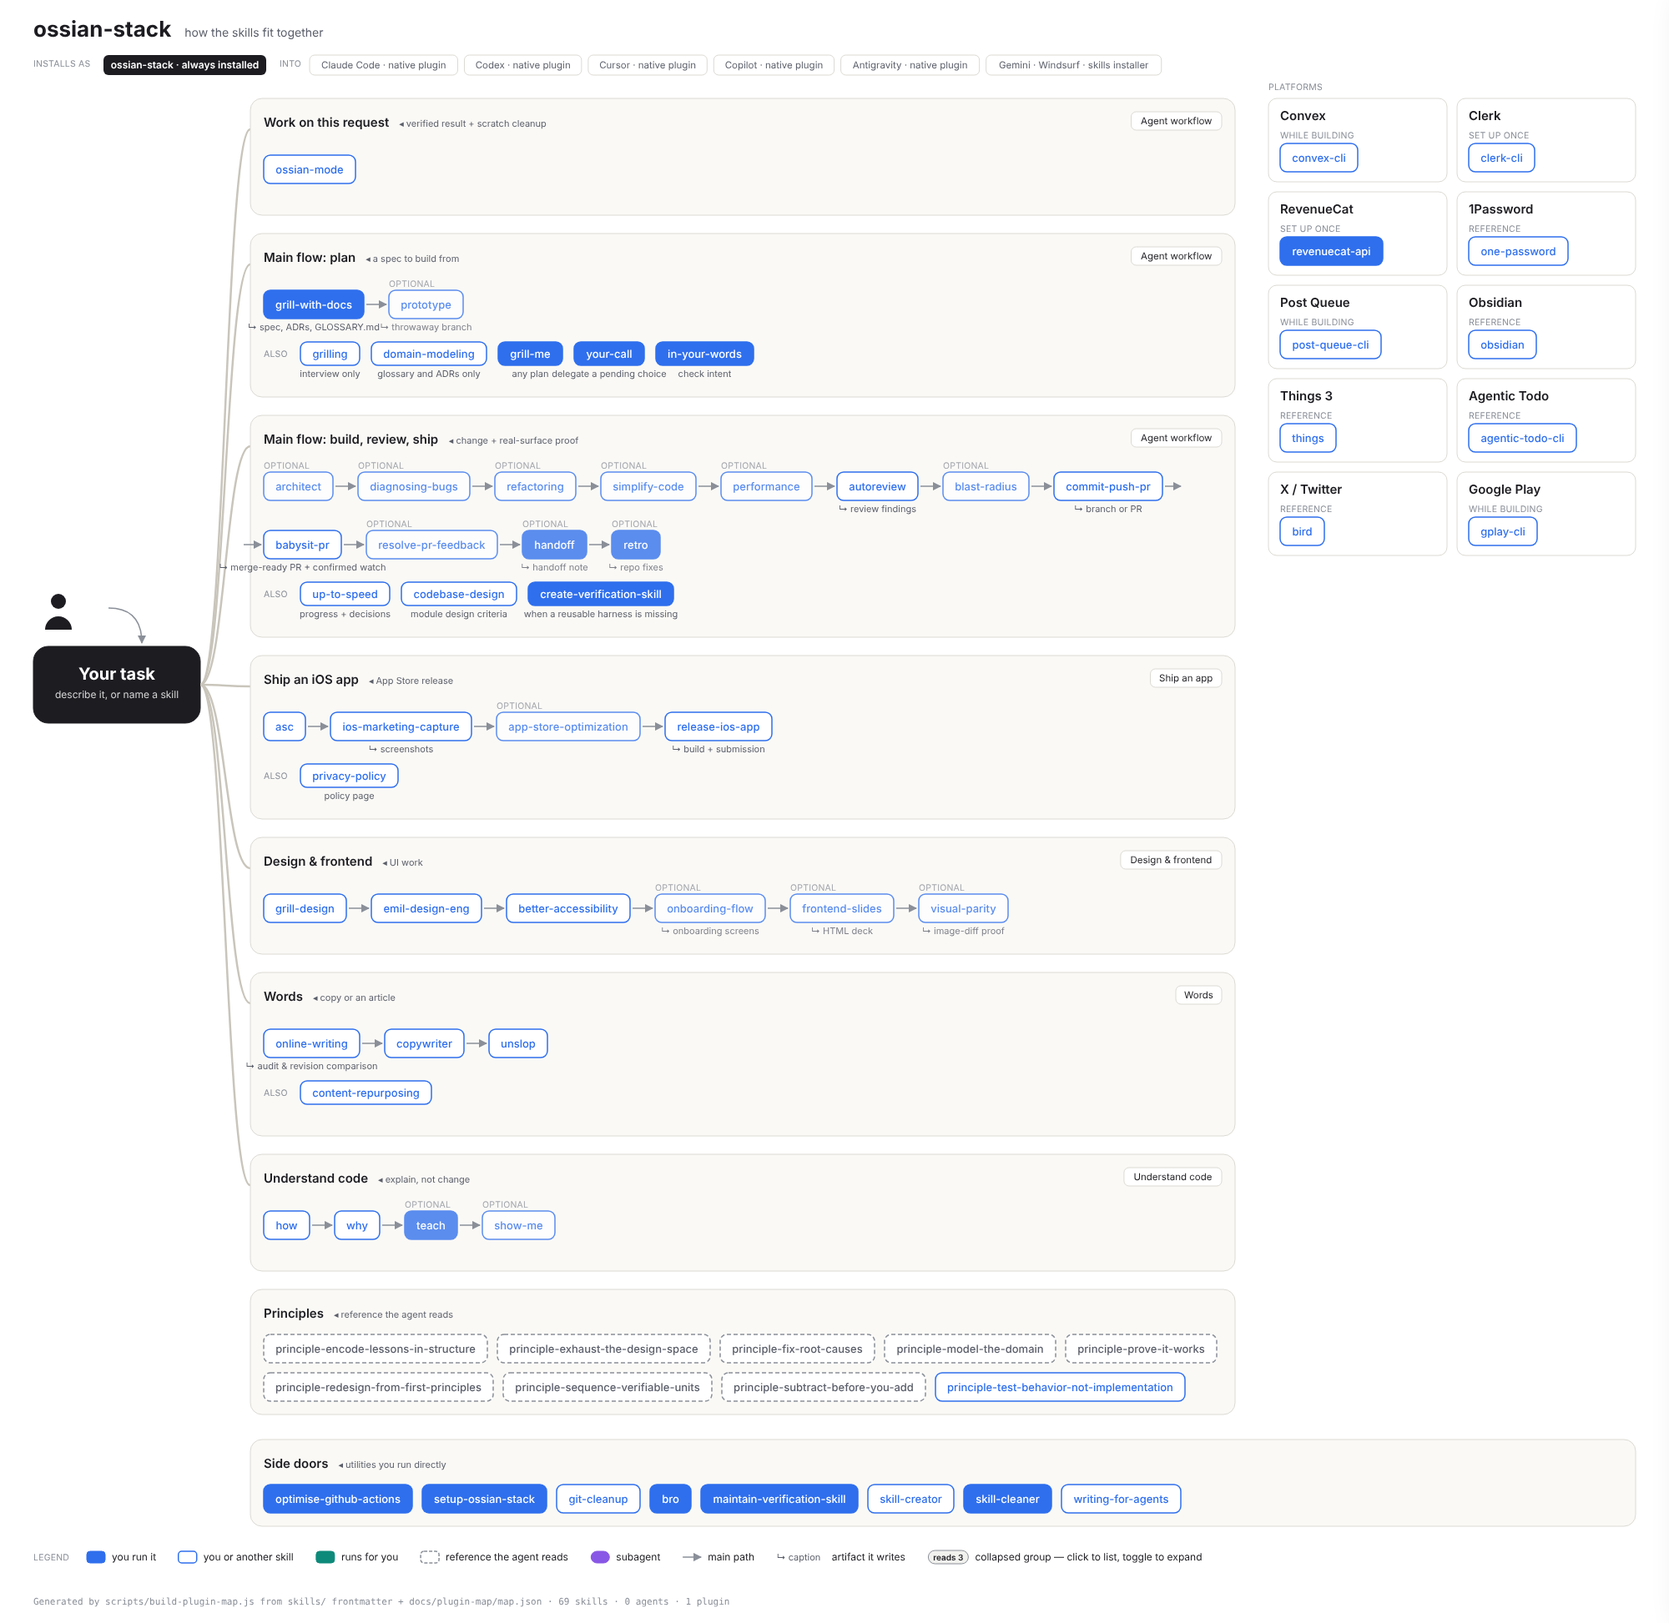
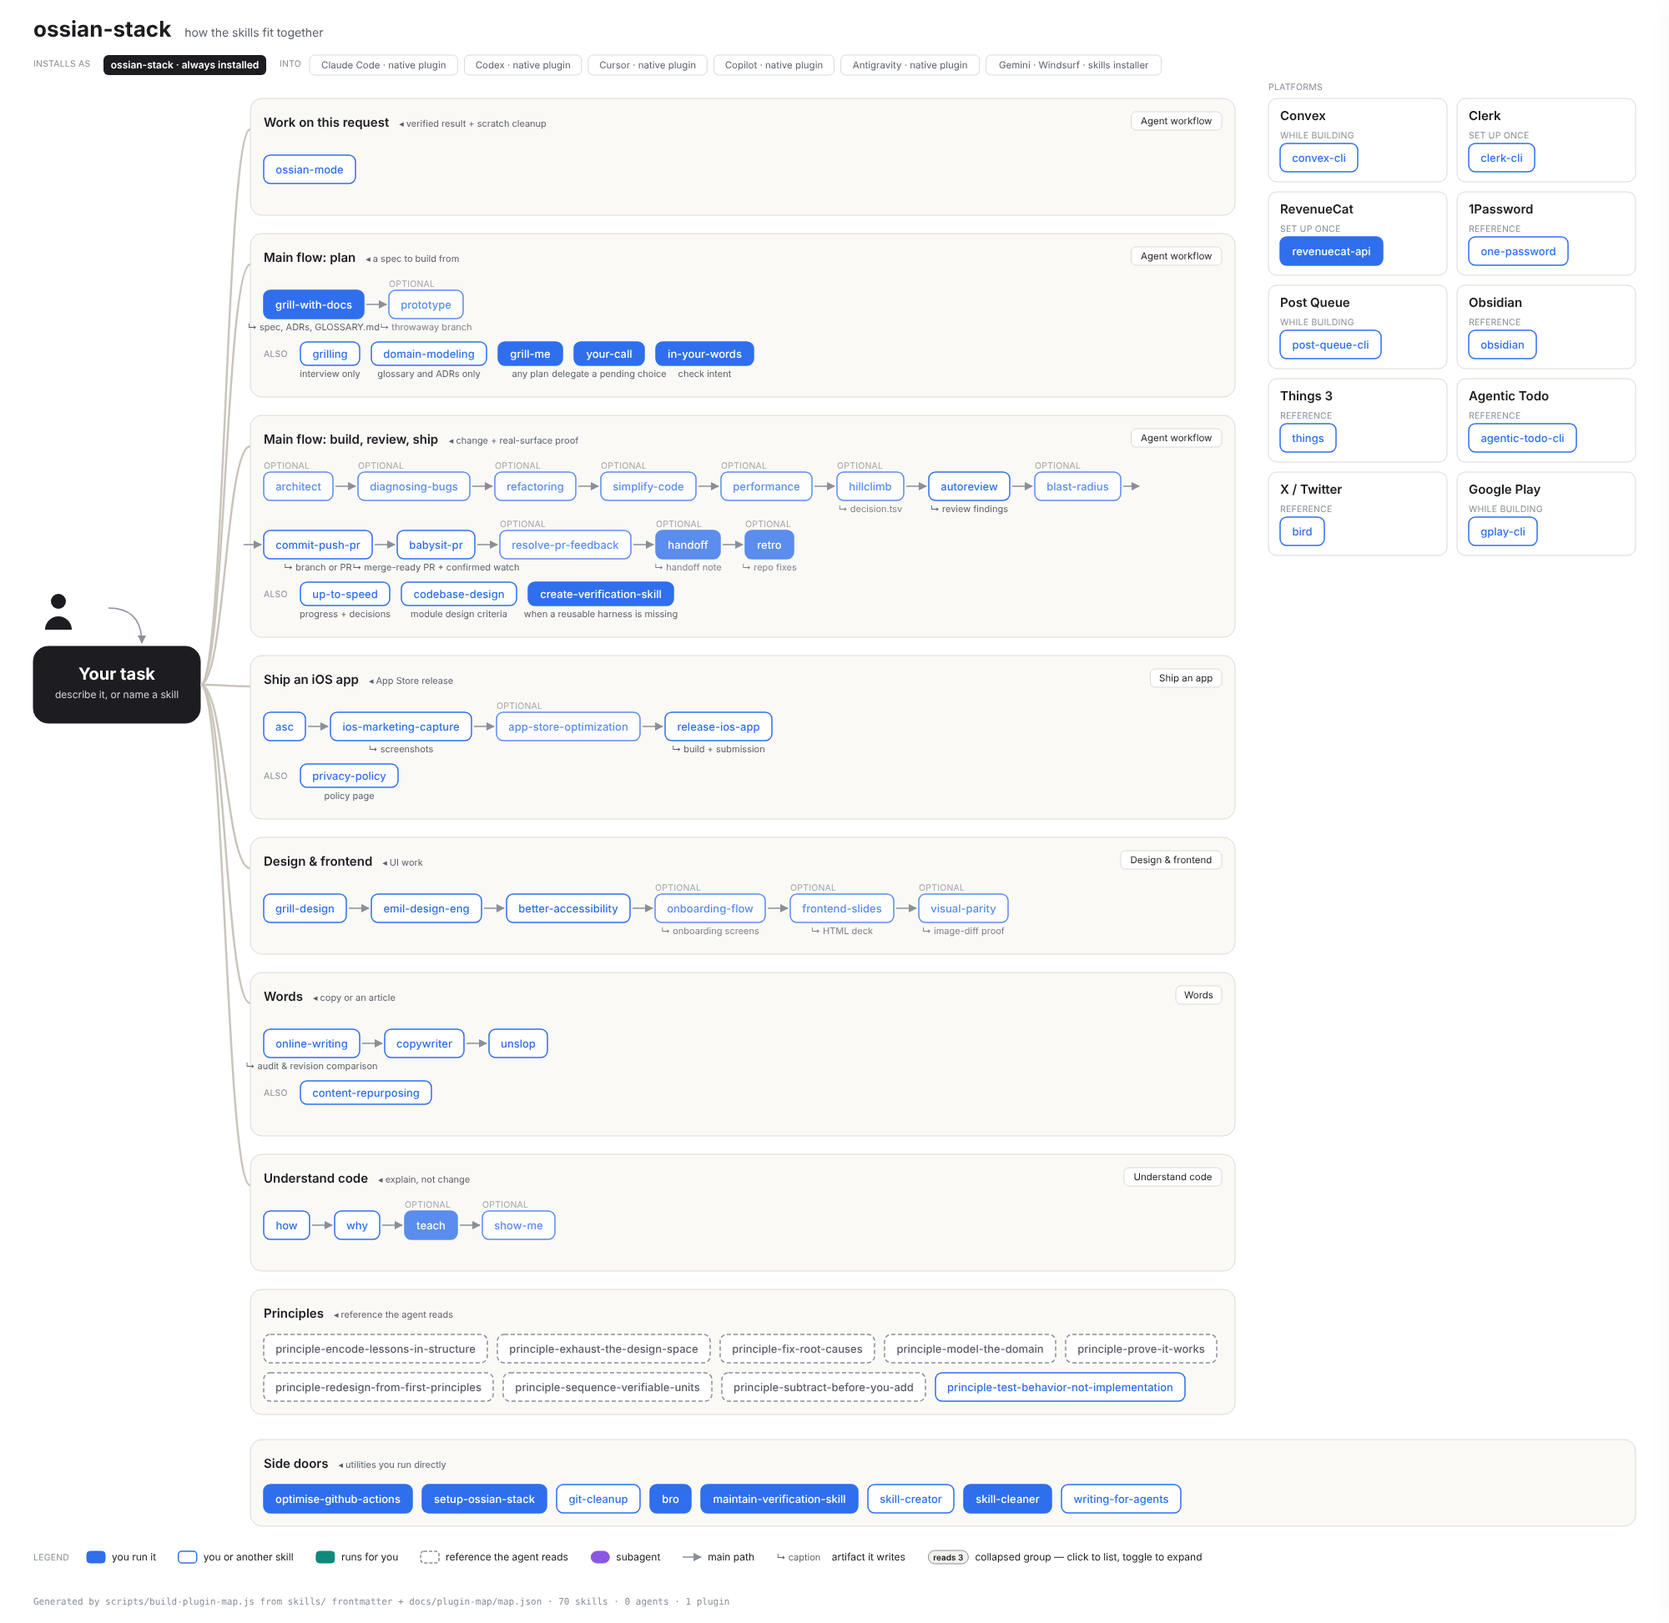
feat(hillclimb): add metric hillclimb skill adapted from pstack
Extract poteto-mode's hillclimb playbook into a standalone skill with
pstack references mapped to ossian-stack skills. performance's metric
improvement mode and ossian-mode's routing now hand off to it.

Claude-Session: https://claude.ai/code/session_01X51LnK1WpvHDXqw88YgKix

Changed region(s): [[0.186, 0.3083, 0.496, 0.37], [0.496, 0.2775, 0.682, 0.3083]]

diff --git a/docs/plugin-map/index.html b/docs/plugin-map/index.html
@@ -233,6 +233,11 @@
       "optional": true
      },
      {
+      "id": "hillclimb",
+      "optional": true,
+      "writes": "decision.tsv"
+     },
+     {
       "id": "autoreview",
       "writes": "review findings"
      },
@@ -780,6 +785,7 @@
    "routes": [],
    "calledBy": [
     "babysit-pr",
+    "hillclimb",
     "ossian-mode",
     "release-ios-app"
    ],
@@ -1088,6 +1094,29 @@
    "calledBy": [],
    "routedBy": []
   },
+  "hillclimb": {
+   "id": "hillclimb",
+   "type": "skill",
+   "plugin": "ossian-stack",
+   "display": "Hillclimb",
+   "description": "Improve one measurable thing against a target in a loop: one change, one measurement, keep or revert. Use for sustained metric work (latency, bundle size, eval score, build time); a one-off fix is diagnosing-bugs or performance.",
+   "role": "both",
+   "humanOnly": false,
+   "argumentHint": null,
+   "origin": "adapted",
+   "repo": "https://github.com/cursor/plugins",
+   "calls": [
+    "commit-push-pr",
+    "principle-prove-it-works",
+    "principle-sequence-verifiable-units"
+   ],
+   "routes": [],
+   "calledBy": [
+    "ossian-mode",
+    "performance"
+   ],
+   "routedBy": []
+  },
   "how": {
    "id": "how",
    "type": "skill",
@@ -1300,7 +1329,8 @@
     "simplify-code",
     "visual-parity",
     "why",
-    "principle-test-behavior-not-implementation"
+    "principle-test-behavior-not-implementation",
+    "hillclimb"
    ],
    "routes": [
     "create-verification-skill",
@@ -1315,13 +1345,14 @@
    "type": "skill",
    "plugin": "ossian-stack",
    "display": "Performance",
-   "description": "Diagnose live performance, analyze captured profiles, or improve one metric through measured experiments.",
+   "description": "Diagnose live performance or analyze captured profiles; hands sustained metric improvement to hillclimb.",
    "role": "both",
    "humanOnly": false,
    "argumentHint": null,
    "origin": "adapted",
    "repo": "https://github.com/cursor/plugins",
    "calls": [
+    "hillclimb",
     "how",
     "principle-prove-it-works",
     "principle-sequence-verifiable-units"
@@ -1434,6 +1465,7 @@
    "calledBy": [
     "blast-radius",
     "diagnosing-bugs",
+    "hillclimb",
     "ossian-mode",
     "performance",
     "principle-sequence-verifiable-units",
@@ -1475,6 +1507,7 @@
    ],
    "routes": [],
    "calledBy": [
+    "hillclimb",
     "ossian-mode",
     "performance"
    ],
@@ -1928,7 +1961,7 @@
   }
  },
  "counts": {
-  "skills": 69,
+  "skills": 70,
   "agents": 0,
   "plugins": 1
  }

diff --git a/skills/hillclimb/SKILL.md b/skills/hillclimb/SKILL.md
@@ -1,0 +1,74 @@
+---
+name: hillclimb
+description: "Improve one measurable thing against a target in a loop: one change, one measurement, keep or revert. Use for sustained metric work (latency, bundle size, eval score, build time); a one-off fix is diagnosing-bugs or performance."
+---
+
+# Hillclimb
+
+You own the metric and the experiment's integrity. Supervise and review; the
+attempts themselves can be delegated.
+
+The discipline is one change, one measurement, keep or revert. Never stack
+untested changes, and never claim a win from code inspection: a win is a number
+from the frozen harness (`principle-prove-it-works`).
+
+1. **Ground the workload, then fix the metric.** Trace the target and name the
+   realistic workload dimensions that can move the result (data size, history,
+   state, concurrency). Pick a case that reproduces the user's complaint; if
+   none does, fix the repro before climbing. Then fix one metric, the direction
+   that counts as better, and a checkable stop predicate that pairs a target
+   with a floor on attempts, so a lucky early win can't end the run ("at least
+   50% better than baseline and at least 10 iterations"). Use the user's numbers
+   when given; otherwise propose them and proceed.
+2. **Build the harness, prove it, freeze it.** Script the measurement rather
+   than running it by hand; the script is what a reviewer reruns. Run
+   contrasting realistic workloads and confirm the target case reproduces the
+   symptom while easier cases separate as expected. If the harness can't tell
+   them apart, revise the workload or metric. Vet it with
+   [references/benchmark-checklist.md](references/benchmark-checklist.md) and
+   make it print its error count and a count of the work done. Frozen means one
+   repeatable command that emits the metric, sampled enough to clear noise
+   (median of N, not one run). Record the baseline and a green run of the
+   regression gate (the tests that must keep passing) before any change.
+3. **Open the decision log.** A `decision.tsv` outside the tree (or gitignored),
+   one row per attempt: id, hypothesis, change, before, after, delta, tests,
+   verdict (kept or reverted), note. Read it before each attempt.
+4. **Ground each hypothesis in the architecture from step 1.** Name a specific
+   mechanism ("defer X off the boot path because it blocks first paint"), not
+   "try memoizing something". For a performance metric, try in this order:
+   eliminate unused work, reduce input, cache repeated work with explicit
+   invalidation, batch fixed overhead, defer unused work, move required work off
+   the interactive path, add an index or queue that removes more cost than it
+   adds.
+5. **Loop, one hypothesis per iteration** (`principle-sequence-verifiable-units`):
+   - Make the change, or hand it to a subagent with a tight scope when the host
+     has them, and review the diff. Keep bulk output (logs, traces, long files)
+     in subagents and carry summaries in the main thread. Run independent
+     hypotheses in parallel only with each attempt in its own worktree, and keep
+     yourself as the one integration owner.
+   - Measure before and after with the frozen harness and run the regression
+     gate.
+   - Keep the change only when the metric moves past noise and the gate stays
+     green. Otherwise revert it in full; a tweak that "might help" is reverted.
+   - One commit per kept change, staging only the files it touched
+     (`git add <files>`). Log the row either way.
+
+   Each iteration ends in its check before the next begins. For an unattended
+   run, use the host's scheduled wakeup to resume the loop.
+6. **Push past the first plateau.** After several rejects in a row, pivot
+   category, combine near-misses, re-read the source, or try something more
+   radical before calling the hill climbed. Correctness and simplicity outrank
+   the number: revert a win that breaks behavior, and keep a simplification
+   that holds the number.
+7. **Stop** when the predicate is met, or when the remaining ideas are marginal
+   and not worth their cost. Keep the predicate fixed, and keep going while
+   cheap untried hypotheses remain. If you are stuck, say so with the log rather
+   than spinning.
+8. **Deliver** the kept commits in the order they landed through
+   `commit-push-pr`, when delivery is authorized.
+
+## Reply
+
+The metric and target, baseline to final with the percent delta, iterations run
+(kept vs reverted), each kept change on one line, the `decision.tsv` path, and
+the best idea you would try next if pushed further.

diff --git a/README.md b/README.md
@@ -2,7 +2,7 @@
 
 Ossian's personal agent skills, packaged as one plugin for Claude Code, Codex, and Cursor.
 
-![skills](https://img.shields.io/badge/skills-69-blue)
+![skills](https://img.shields.io/badge/skills-70-blue)
 ![license](https://img.shields.io/badge/license-MIT-green)
 ![runtimes](https://img.shields.io/badge/runtimes-Claude%20Code%20%C2%B7%20Codex%20%C2%B7%20Cursor-8957e5)
 
@@ -173,7 +173,7 @@ refreshed instead of quietly rotting.
 
 ## Skills at a glance
 
-69 skills, grouped by what they are for.
+70 skills, grouped by what they are for.
 
 | Group | Covers | Skills |
 | --- | --- | --- |
@@ -181,7 +181,7 @@ refreshed instead of quietly rotting.
 | **Design & frontend** | Accessibility, UI craft and motion, decks, onboarding, throwaway prototypes | `better-accessibility` · `emil-design-eng` · `grill-design` · `frontend-slides` · `onboarding-flow` · `prototype` · `visual-parity` |
 | **Words** | Marketing copy, editorial audit, headlines and hooks, research, content repurposing, plain-statement and slop pass | `copywriter` · `online-writing` · `content-repurposing` · `unslop` |
 | **Backend & infra** | Convex, Clerk, RevenueCat, secrets, Post Queue, infrastructure operations, explicitly invoked Actions audits | `convex-cli` · `clerk-cli` · `revenuecat-api` · `one-password` · `post-queue-cli` · `optimise-github-actions` |
-| **Agent workflow** | Review, routing, large-effort planning, simplification, refactoring, debugging, verification, session retrospectives, direct trunk delivery or PR creation with merge-ready follow-through, targeted post-merge cleanup, explicit repository-wide git hygiene, install and skill maintenance | `architect` · `codebase-design` · `autoreview` · `babysit-pr` · `blast-radius` · `commit-push-pr` · `retro` · `setup-ossian-stack` · `diagnosing-bugs` · `domain-modeling` · `performance` · `create-verification-skill` · `maintain-verification-skill` · `git-cleanup` · `grill-me` · `grill-with-docs` · `grilling` · `in-your-words` · `your-call` · `handoff` · `up-to-speed` · `ossian-mode` · `refactoring` · `resolve-pr-feedback` · `simplify-code` · `bro` · `skill-creator` · `skill-cleaner` · `writing-for-agents` |
+| **Agent workflow** | Review, routing, large-effort planning, simplification, refactoring, debugging, verification, session retrospectives, direct trunk delivery or PR creation with merge-ready follow-through, targeted post-merge cleanup, explicit repository-wide git hygiene, install and skill maintenance | `architect` · `codebase-design` · `autoreview` · `babysit-pr` · `blast-radius` · `commit-push-pr` · `retro` · `setup-ossian-stack` · `diagnosing-bugs` · `domain-modeling` · `performance` · `hillclimb` · `create-verification-skill` · `maintain-verification-skill` · `git-cleanup` · `grill-me` · `grill-with-docs` · `grilling` · `in-your-words` · `your-call` · `handoff` · `up-to-speed` · `ossian-mode` · `refactoring` · `resolve-pr-feedback` · `simplify-code` · `bro` · `skill-creator` · `skill-cleaner` · `writing-for-agents` |
 | **Principles** | Working principles — verification, behavior-based testing, design exploration, debugging posture, domain modeling | `principle-encode-lessons-in-structure` · `principle-exhaust-the-design-space` · `principle-fix-root-causes` · `principle-model-the-domain` · `principle-prove-it-works` · `principle-redesign-from-first-principles` · `principle-sequence-verifiable-units` · `principle-subtract-before-you-add` · `principle-test-behavior-not-implementation` |
 | **Understand code** | Codebase walkthroughs, design rationale, explaining a change, visual sketches | `how` · `why` · `teach` · `show-me` |
 | **Personal tooling** | Notes, tasks, and X/Twitter reads and authorized actions | `obsidian` · `things` · `agentic-todo-cli` · `bird` |

diff --git a/skills/hillclimb/references/benchmark-checklist.md b/skills/hillclimb/references/benchmark-checklist.md
@@ -1,0 +1,58 @@
+# Benchmark checklist
+
+Vet every performance number before you report it or act on it: a baseline, a
+before/after, a regression claim, a frozen harness, or a choice between options.
+Answer each question with evidence from a run, not a guess about the code.
+
+For a quick ballpark the user asked for, one run is enough. Still check
+questions 4 and 7, and say that it is one run. A choice between options is never
+a ballpark.
+
+## Before you run anything
+
+- Write down the claim you expect to make, in the words you would ship ("export
+  is 30% faster at p50 on the 60k-row dataset"). The questions test that sentence.
+- Read the measurement script. Note what it times, counts, and ignores.
+- Check whether the machine is busy (load average, core count, other processes).
+  If you cannot quiet it, interleave the sides so both see the same noise, and
+  say so in the report.
+
+## The questions
+
+1. **Why not double?** Name the limiter. Profile in a run you do not report,
+   because profilers slow the work down. Use CPU per process, a runtime
+   profiler, I/O wait, and syscall counts, then map the hot spot to source. If
+   the load generator saturates first, you measured the load generator. If a
+   change did not move the number, the limiter explains why.
+2. **Was it tuned?** Run every side the way production runs it: release builds,
+   production flags and environment, batching, connection pools, caches as warm
+   or cold as production sees them, same versions and data. If one side runs on
+   defaults, you compared configurations, not implementations. Tune it and
+   measure again, or do not pick a winner from that run.
+3. **Did it break limits?** Do the arithmetic against disk and network
+   bandwidth, cores times cost per operation, and the share of time the changed
+   piece took. Removing a piece that takes 10% of the run can make the run at
+   most about 11% faster. A result past a limit measured a cache, a no-op, or a
+   bug.
+4. **Did it error?** Count failures and non-success responses, and check that
+   outputs are correct, not just present. Rejections are fast; timeouts and
+   retries are slow. If the script does not count errors, add the count.
+5. **Does it reproduce?** Run each side at least 5 times, alternating A, B, A, B
+   so warmup, caches, and drift favor neither. Report the median and range. A
+   gap smaller than run-to-run variation is no measurable difference. When the
+   call is close, use a rank-sum test or the harness's own statistics.
+6. **Does it matter?** Next to any micro result, measure the end-to-end path a
+   user waits on, with realistic data sizes and concurrency, and report the
+   micro result as a share of the whole.
+7. **Did it even happen?** Confirm the work ran inside the timed region: the
+   request reached the server, the rows were written, and the code used the
+   result. Lazy code (unconsumed iterators, unawaited promises, results the
+   compiler can discard) and timeouts produce numbers for work that never ran.
+
+## Verdict
+
+Lead with faster, slower, no measurable difference, or inconclusive. Give the
+number with its unit, run count, range, and limiter, for example "p50 41 ms →
+33 ms, median of 7 runs per side, range 32 to 35 ms after, bound by JSON parsing
+on one core." Call it inconclusive when you cannot name the limiter, a side ran
+untuned, or you could not check questions 4 and 7, and name the gap.

diff --git a/skills/ossian-mode/SKILL.md b/skills/ossian-mode/SKILL.md
@@ -122,7 +122,7 @@ to implementation; its size alone does not require a planning detour.
 | Current need | Route |
 | --- | --- |
 | Questions or investigation | `how` for behavior and ownership; `why` for rationale and evidence. A question alone does not authorize a change. |
-| Diagnosis | `diagnosing-bugs` for broken behavior. Use `performance` for latency, CPU, memory, energy, frame time, throughput, or captured profiles. Preserve diagnosis-only scope. |
+| Diagnosis | `diagnosing-bugs` for broken behavior. Use `performance` for latency, CPU, memory, energy, frame time, throughput, or captured profiles. Preserve diagnosis-only scope. `hillclimb` to push one metric to a target. |
 | Unsettled design | `grilling` for product decisions, `prototype` for observable alternatives, and `architect` for caller contracts and module boundaries. |
 | Implementation | Implement the agreed scope directly. When a spec from `grill-with-docs` exists, build its units in order. Write a unit's uncovered behavior checks as failing tests before the code where a maintainable test boundary exists; otherwise reuse existing coverage or use the strongest accessible check, as `principle-test-behavior-not-implementation` describes. For cross-boundary work settle caller usage and the data shape through `architect`. Load a relevant platform or craft skill only where needed. Use `visual-parity` when a UI must match a fixed reference. |
 | Refactoring | `refactoring` for structural changes with behavior preserved; `simplify-code` for readability in place. |

diff --git a/skills/performance/SKILL.md b/skills/performance/SKILL.md
@@ -1,6 +1,6 @@
 ---
 name: performance
-description: "Diagnose live performance, analyze captured profiles, or improve one metric through measured experiments."
+description: "Diagnose live performance or analyze captured profiles; hands sustained metric improvement to hillclimb."
 ---
 
 # Performance
@@ -35,23 +35,10 @@ to fix it.
 
 ## Metric improvement
 
-For a sustained target, freeze one repeatable measurement command, prove it
-separates realistic workloads, sample enough to clear noise, and record the
-baseline. Run one hypothesis per iteration:
-
-1. State the mechanism.
-2. Make the smallest relevant change.
-3. Measure with the frozen harness and run the behavior regression gate.
-4. Keep a change only when the metric moves beyond noise and behavior holds.
-5. Revert non-wins completely.
-
-One accepted change per
-commit when commits are authorized. Never loosen the target to declare success.
-
-Candidate strategies come from the trace: eliminate unused work, reduce input,
-cache repeated work with explicit invalidation, batch fixed overhead, defer unused
-work, move required work away from the interactive path, or add an index or queue
-that removes more cost than it adds.
+For a sustained target (improve one metric until it meets a threshold), run
+`hillclimb`. It owns the frozen harness, the keep-or-revert loop, the decision
+log, and the stop predicate. Ground its hypotheses in the trace from a diagnosis
+above.
 
 ## Reply
 
